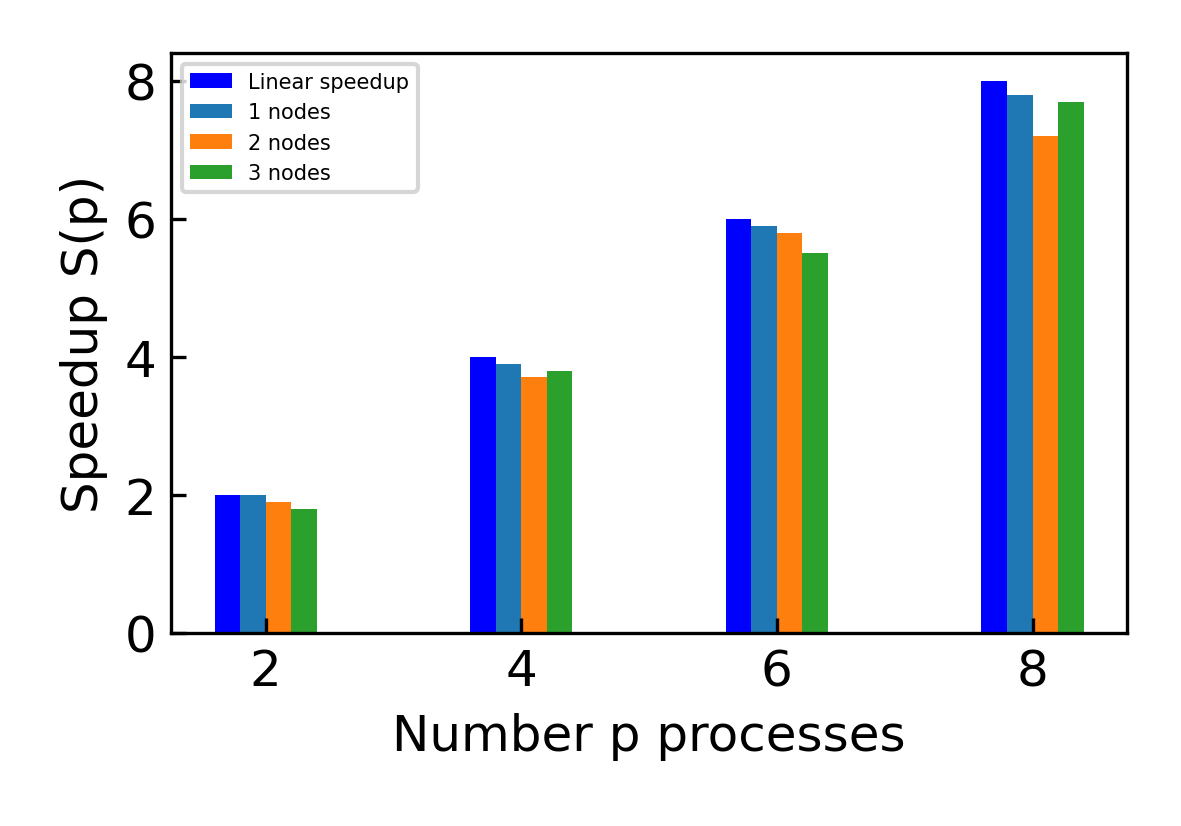
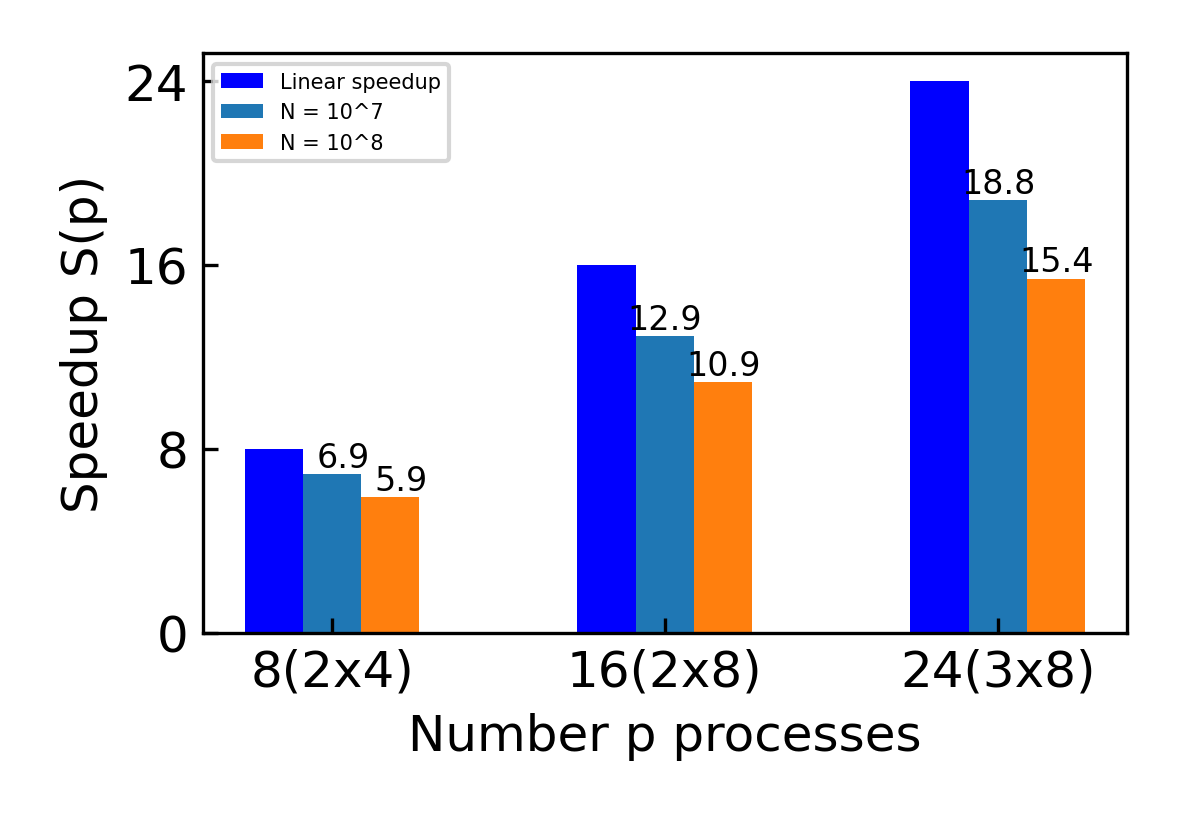
5sem: PCT: Add lab-03

Changed region(s): [[0.0914, 0.0605, 0.7925, 0.9383], [0.7621, 0.0908, 0.945, 0.8475]]

diff --git a/5sem/PCT/lab-02/Monte-Carlo/chart.py b/5sem/PCT/lab-02/Monte-Carlo/chart.py
@@ -27,8 +27,11 @@ def draw(filenames, labels):
 
     ax.xaxis.set_tick_params(direction='in', which='both')
     ax.yaxis.set_tick_params(direction='in', which='both')
-    ax.xaxis.set_major_locator(ticker.MultipleLocator(2))
-    # ax.yaxis.set_major_locator(ticker.MultipleLocator(1))
+    ax.xaxis.set_major_locator(ticker.MultipleLocator(8))
+    ax.yaxis.set_major_locator(ticker.MultipleLocator(8))
+
+    labelsa = ['8(2x4)', '8(2x4)', '16(2x8)', '24(3x8)']
+    ax.set_xticklabels(labelsa)
 
     count_versions = 0
     lbls = []
@@ -42,7 +45,7 @@ def draw(filenames, labels):
     thrd_cur = min(dataX[0])
     thrd_step = dataX[0][1] - dataX[0][0] if len(dataX[0]) > 1 else 0
     thrd_end = max(dataX[0])
-    wdh = 0.8 / (count_versions + 1)
+    wdh = 4.2 / (count_versions + 1)
 
     first_iteration = True
     p_offset = -wdh * count_versions * 0.5
@@ -56,17 +59,20 @@ def draw(filenames, labels):
                label=lbl, color="blue", width=wdh)
         thrd_cur += thrd_step
 
-    # p_offset += wdh * 0.5
     p_offset += wdh
+    
     for i in range(0, len(dataX)):
         ax.bar(dataX[i] + p_offset, dataY[i], label=lbls[i], width=wdh)
         p_offset += wdh
+        for j in range(len(dataX[i])):
+            ax.annotate(str(dataY[i][j]), xy=(dataX[i][j] + p_offset - 0.5, dataY[i][j]), ha='right', va='bottom', fontsize=8)
 
     plt.tight_layout()
+    
     ax.legend()
     fig.savefig('chart.png', dpi=300)
 
 
 if __name__ == "__main__":
-    draw(["1-nodes.dat", "2-nodes.dat", "3-nodes.dat"], [
-         "1 nodes", "2 nodes", "3 nodes"])
+    draw(["7.dat", "8.dat"], [
+         "N = 10^7", "N = 10^8"])

diff --git a/5sem/PCT/lab-02/Runge/chart.py b/5sem/PCT/lab-02/Runge/chart.py
@@ -27,8 +27,11 @@ def draw(filenames, labels):
 
     ax.xaxis.set_tick_params(direction='in', which='both')
     ax.yaxis.set_tick_params(direction='in', which='both')
-    ax.xaxis.set_major_locator(ticker.MultipleLocator(2))
-    # ax.yaxis.set_major_locator(ticker.MultipleLocator(1))
+    ax.xaxis.set_major_locator(ticker.MultipleLocator(8))
+    ax.yaxis.set_major_locator(ticker.MultipleLocator(8))
+
+    labelsa = ['8(2x4)', '8(2x4)', '16(2x8)', '24(3x8)']
+    ax.set_xticklabels(labelsa)
 
     count_versions = 0
     lbls = []
@@ -42,7 +45,7 @@ def draw(filenames, labels):
     thrd_cur = min(dataX[0])
     thrd_step = dataX[0][1] - dataX[0][0] if len(dataX[0]) > 1 else 0
     thrd_end = max(dataX[0])
-    wdh = 0.8 / (count_versions + 1)
+    wdh = 4.2 / (count_versions + 1)
 
     first_iteration = True
     p_offset = -wdh * count_versions * 0.5
@@ -56,17 +59,20 @@ def draw(filenames, labels):
                label=lbl, color="blue", width=wdh)
         thrd_cur += thrd_step
 
-    # p_offset += wdh * 0.5
     p_offset += wdh
+    
     for i in range(0, len(dataX)):
         ax.bar(dataX[i] + p_offset, dataY[i], label=lbls[i], width=wdh)
         p_offset += wdh
+        for j in range(len(dataX[i])):
+            ax.annotate(str(dataY[i][j]), xy=(dataX[i][j] + p_offset - 1, dataY[i][j]), ha='right', va='bottom', fontsize=8)
 
     plt.tight_layout()
+    
     ax.legend()
     fig.savefig('chart.png', dpi=300)
 
 
 if __name__ == "__main__":
-    draw(["1-nodes.dat", "2-nodes.dat", "3-nodes.dat"], [
-         "1 nodes", "2 nodes", "3 nodes"])
+    draw(["data.dat"], [
+         "e = 1E-6"])

diff --git a/5sem/PCT/lab-03/chart.py b/5sem/PCT/lab-03/chart.py
@@ -30,6 +30,9 @@ def draw(filenames, labels):
     ax.xaxis.set_major_locator(ticker.MultipleLocator(8))
     ax.yaxis.set_major_locator(ticker.MultipleLocator(8))
 
+    labelsa = ['8(2x4)', '8(2x4)', '16(2x8)', '24(3x8)']
+    ax.set_xticklabels(labelsa)
+
     count_versions = 0
     lbls = []
     for (fname, datalabel) in zip(filenames, labels):
@@ -42,7 +45,7 @@ def draw(filenames, labels):
     thrd_cur = min(dataX[0])
     thrd_step = dataX[0][1] - dataX[0][0] if len(dataX[0]) > 1 else 0
     thrd_end = max(dataX[0])
-    wdh = 3.4 / (count_versions + 1)
+    wdh = 4.2 / (count_versions + 1)
 
     first_iteration = True
     p_offset = -wdh * count_versions * 0.5
@@ -56,13 +59,16 @@ def draw(filenames, labels):
                label=lbl, color="blue", width=wdh)
         thrd_cur += thrd_step
 
-    # p_offset += wdh * 0.5
     p_offset += wdh
+    
     for i in range(0, len(dataX)):
         ax.bar(dataX[i] + p_offset, dataY[i], label=lbls[i], width=wdh)
         p_offset += wdh
+        for j in range(len(dataX[i])):
+            ax.annotate(str(dataY[i][j]), xy=(dataX[i][j] + p_offset - 0.5, dataY[i][j]), ha='right', va='bottom', fontsize=8)
 
     plt.tight_layout()
+    
     ax.legend()
     fig.savefig('chart.png', dpi=300)
 

diff --git a/5sem/PCT/lab-03/SGEMV.cpp b/5sem/PCT/lab-03/SGEMV.cpp
@@ -39,7 +39,6 @@ void sgemv(float* a, float* b, float* c, int m, int n)
             c[lb + i] += a[i * n + j] * b[j];
     }
 
-    // Gather data from all processes using Allgatherv
     int* displs = new int[commsize];
     int* rcounts = new int[commsize];
     for (int i = 0; i < commsize; i++) {
@@ -54,6 +53,7 @@ void sgemv(float* a, float* b, float* c, int m, int n)
     free(displs);
     free(rcounts);
 }
+
 int main(int argc, char** argv)
 {
     int commsize, rank;
@@ -66,7 +66,7 @@ int main(int argc, char** argv)
 
     int lb, ub, m = 280, n = 280;
 
-    get_chunk(0, m - 1, commsize, rank, &lb, &ub); // Декомпозиция матрицы на горизонтальные полосы
+    get_chunk(0, m - 1, commsize, rank, &lb, &ub);
 
     int nrows = ub - lb + 1;
     float* a = new float[nrows * n];
@@ -82,7 +82,7 @@ int main(int argc, char** argv)
         b[j] = j + 1;
     sgemv(a, b, c, m, n);
 
-    t = MPI_Wtime() - t; // Продолжение main()
+    t = MPI_Wtime() - t;
 
     if (rank == 0) std::cout << t << '\n';
 

diff --git a/5sem/PCT/lab-02/Runge/main.cpp b/5sem/PCT/lab-02/Runge/main.cpp
@@ -17,7 +17,7 @@ int main(int argc, char** argv)
     MPI_Comm_rank(MPI_COMM_WORLD, &rank);
 
     double eps = 1E-6;
-    int n0 = 1000000;
+    int n0 = 10000000;
     int n = n0, k;
     double sq[2] = {0.0, 0.0}, delta = 1;
     double a = -1.0, b = 1.0;
